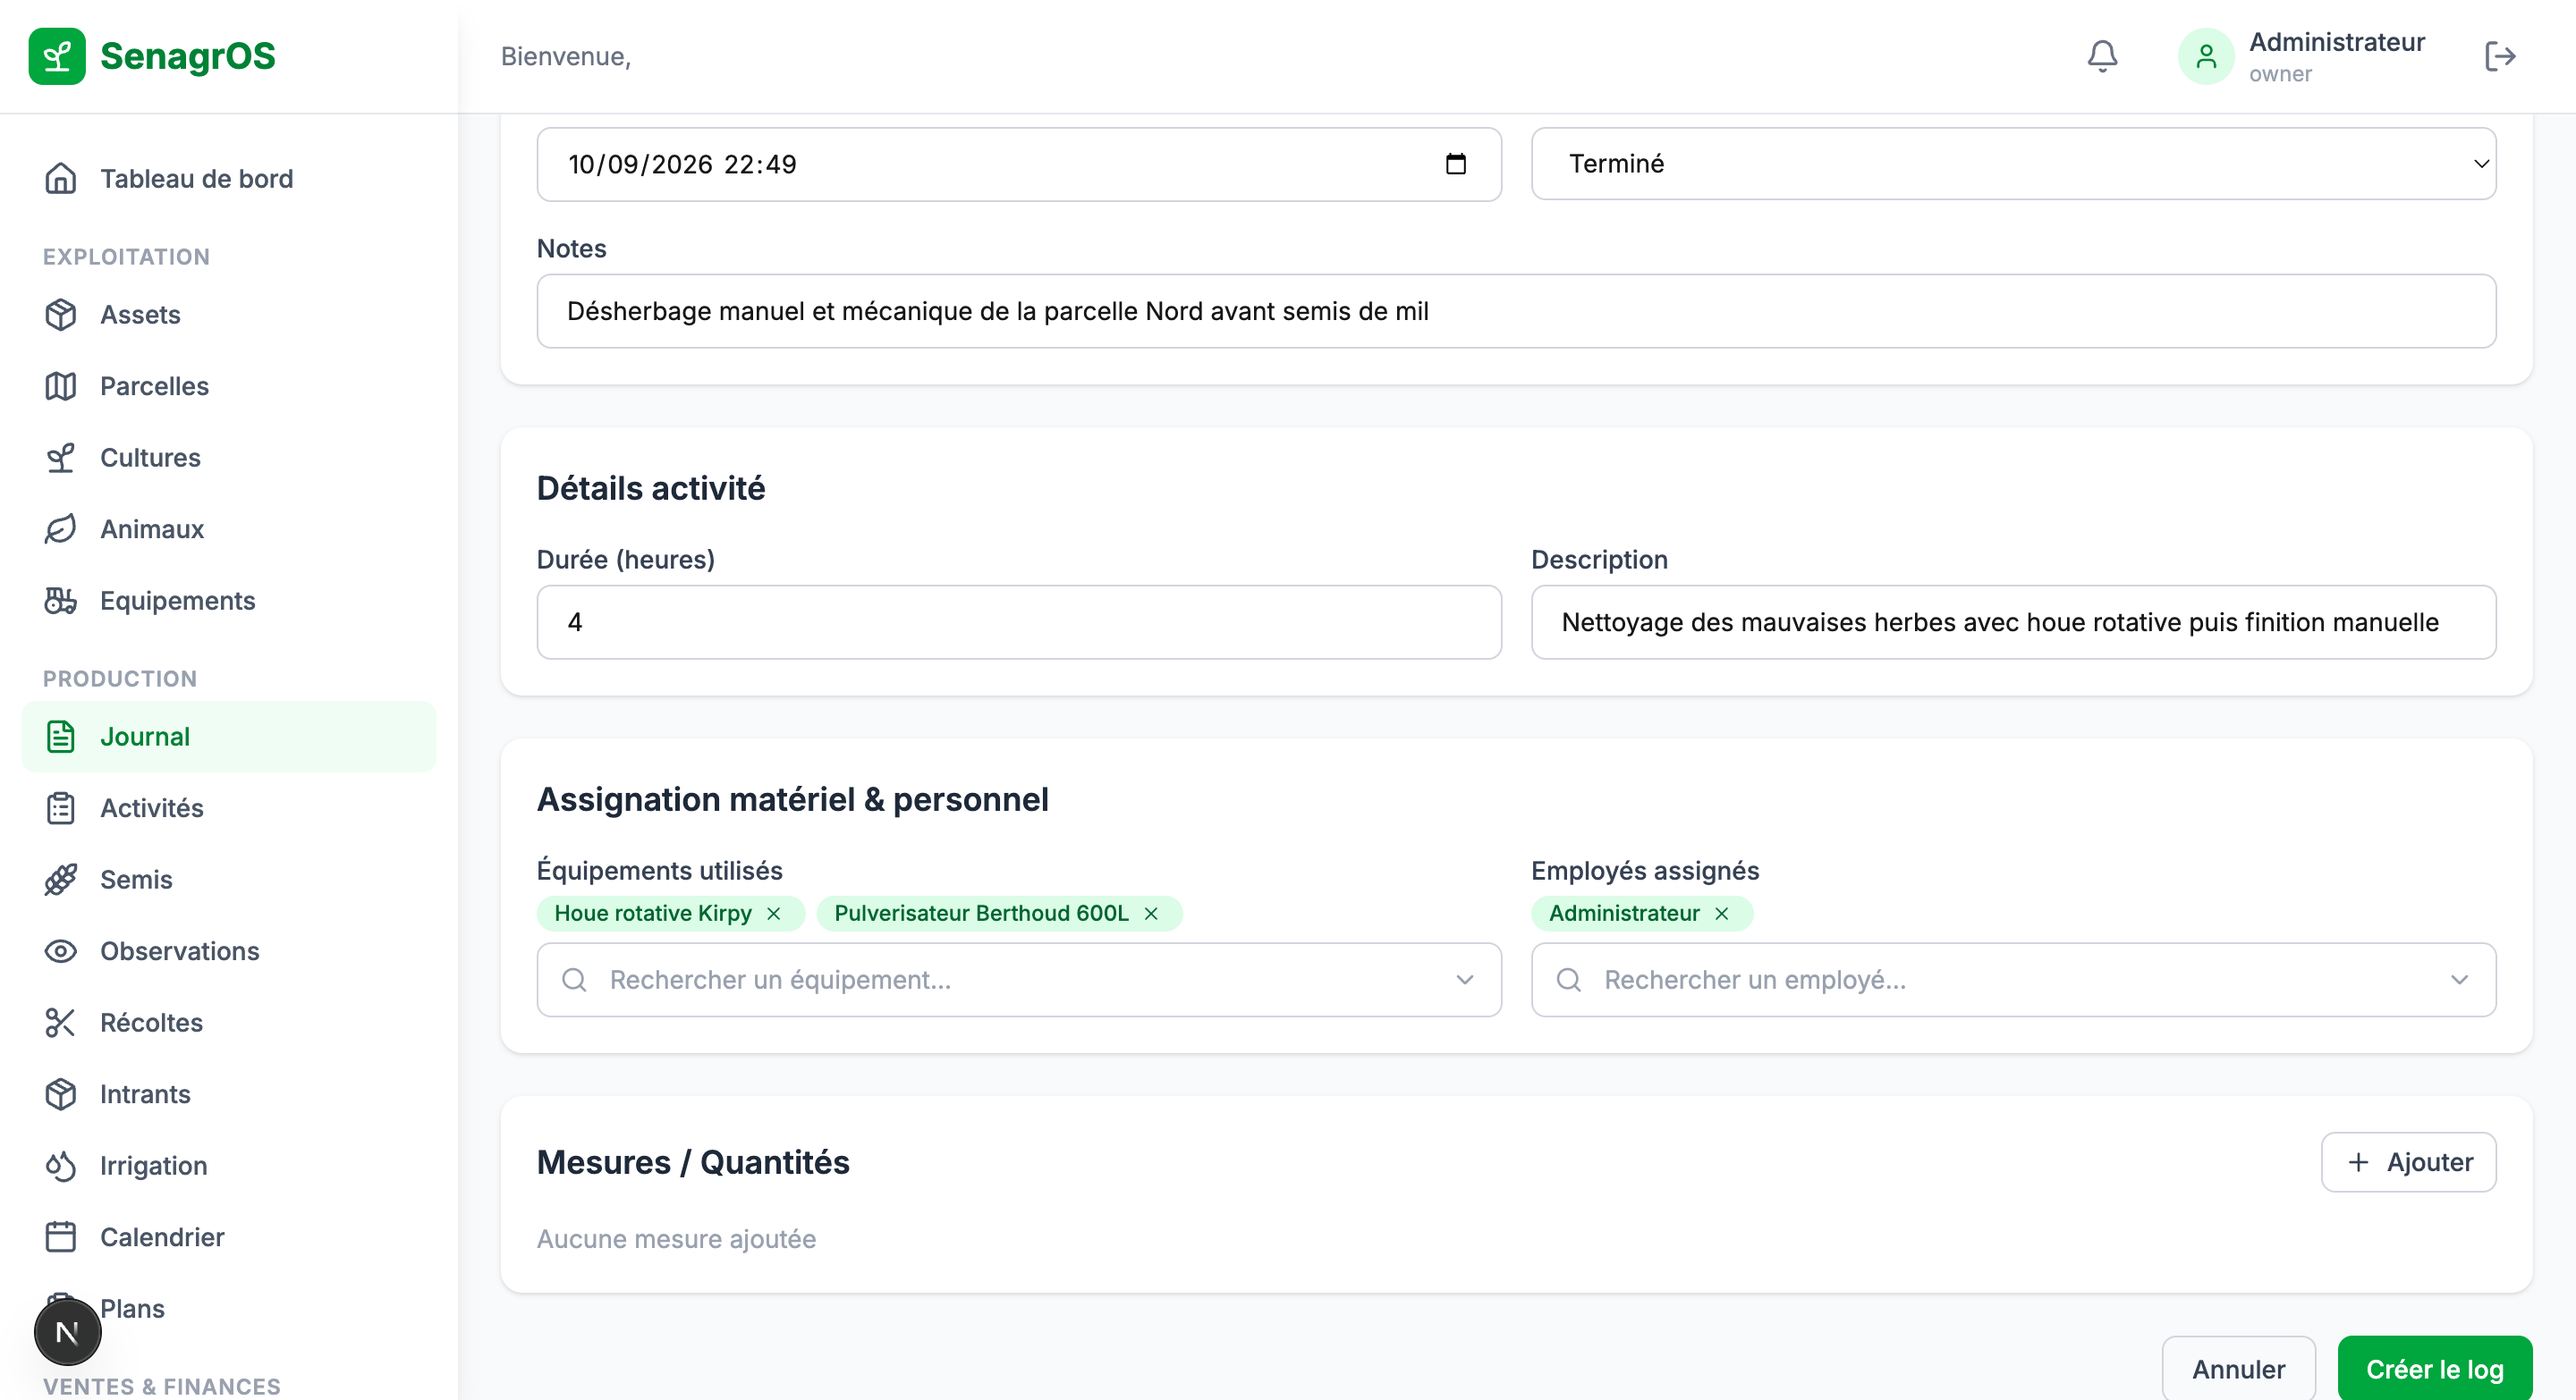
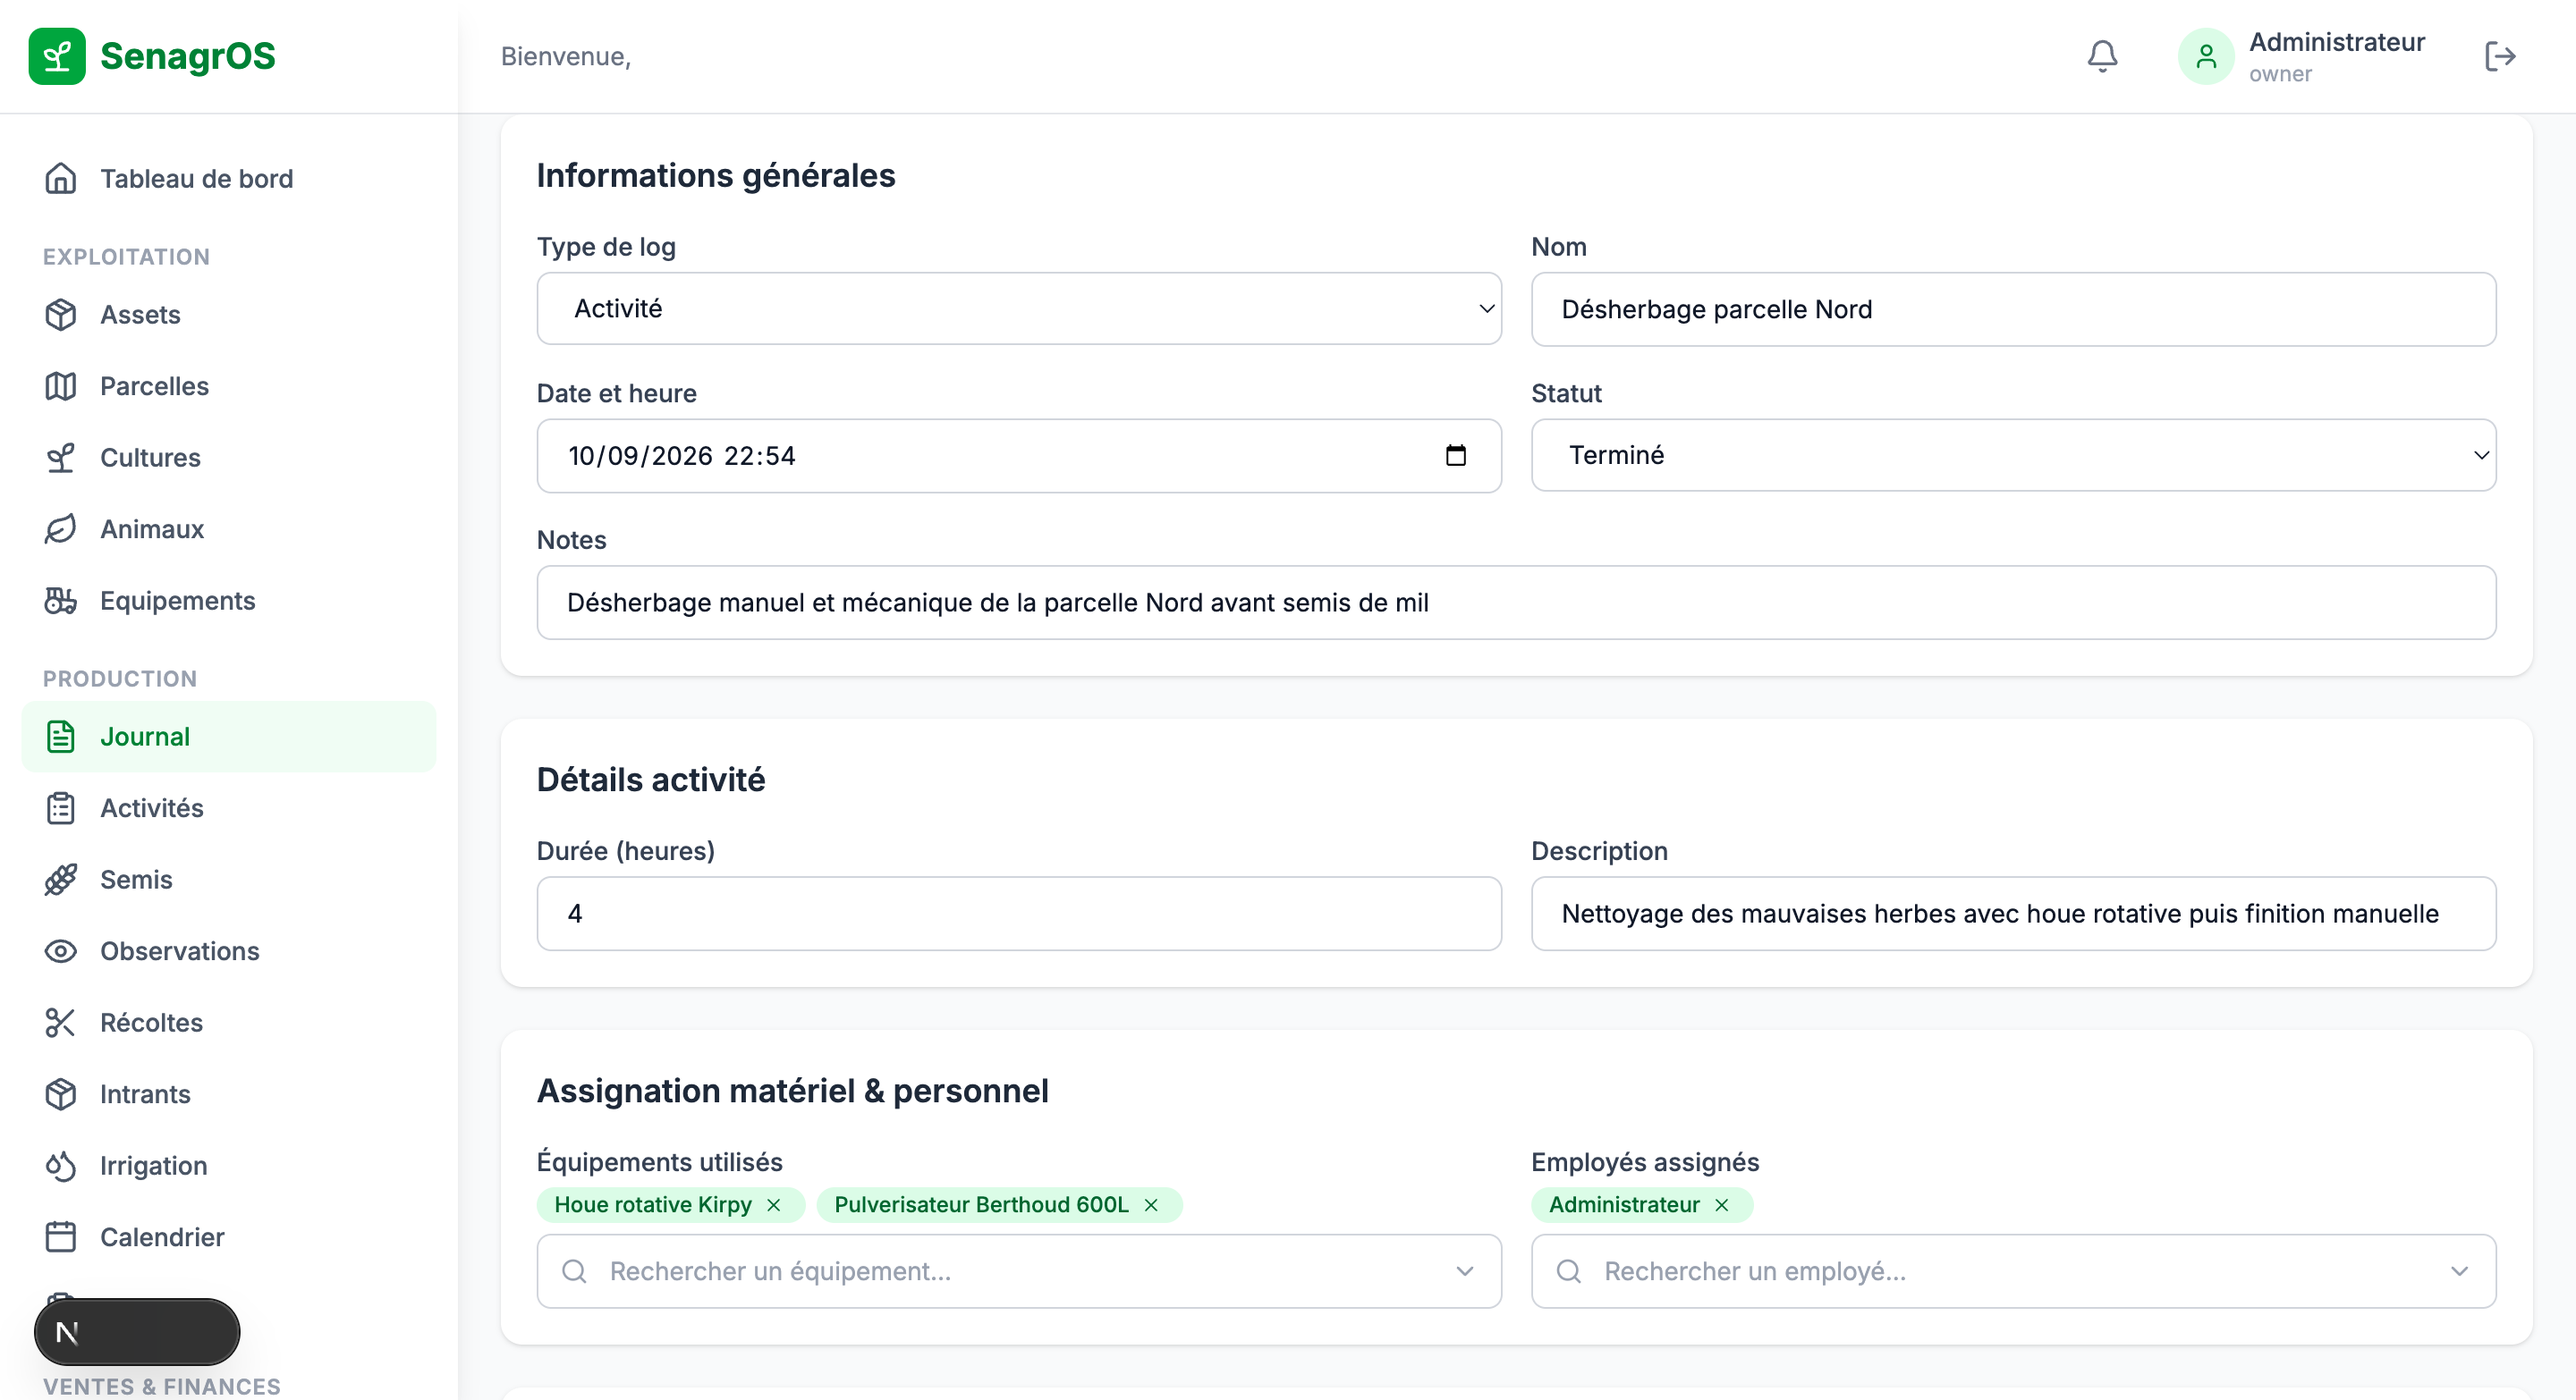
fix: darken input text color for better readability
Add explicit text-gray-900 to Input, Select, and ComboboxAsync components
so form field values are clearly readable instead of appearing too light.
Updated activity form screenshot with the improved contrast.

diff --git a/src/components/ui/ComboboxAsync.tsx b/src/components/ui/ComboboxAsync.tsx
@@ -129,7 +129,7 @@ export function ComboboxAsync<T>({
           onFocus={handleFocus}
           placeholder={placeholder}
           disabled={disabled}
-          className="w-full bg-transparent px-3 py-2.5 text-sm outline-none placeholder:text-gray-400 disabled:cursor-not-allowed disabled:opacity-50"
+          className="w-full bg-transparent px-3 py-2.5 text-sm text-gray-900 outline-none placeholder:text-gray-400 disabled:cursor-not-allowed disabled:opacity-50"
         />
         {isLoading ? (
           <Loader2 className="mr-3 h-4 w-4 shrink-0 animate-spin text-gray-400" />
@@ -343,7 +343,7 @@ export function ComboboxAsyncMulti<T>({
           onFocus={handleFocus}
           placeholder={placeholder}
           disabled={disabled}
-          className="w-full bg-transparent px-3 py-2.5 text-sm outline-none placeholder:text-gray-400 disabled:cursor-not-allowed disabled:opacity-50"
+          className="w-full bg-transparent px-3 py-2.5 text-sm text-gray-900 outline-none placeholder:text-gray-400 disabled:cursor-not-allowed disabled:opacity-50"
         />
         {isLoading ? (
           <Loader2 className="mr-3 h-4 w-4 shrink-0 animate-spin text-gray-400" />

diff --git a/src/components/ui/Select.tsx b/src/components/ui/Select.tsx
@@ -24,7 +24,7 @@ export const Select = forwardRef<HTMLSelectElement, SelectProps>(
         <select
           ref={ref}
           id={id}
-          className={`w-full rounded-lg border px-4 py-2.5 text-sm transition focus:outline-none focus:ring-2 ${
+          className={`w-full rounded-lg border px-4 py-2.5 text-sm text-gray-900 transition focus:outline-none focus:ring-2 ${
             error
               ? 'border-red-300 focus:border-red-500 focus:ring-red-200'
               : 'border-gray-300 focus:border-green-500 focus:ring-green-200'

diff --git a/src/components/ui/Input.tsx b/src/components/ui/Input.tsx
@@ -18,7 +18,7 @@ export const Input = forwardRef<HTMLInputElement, InputProps>(
         <input
           ref={ref}
           id={id}
-          className={`w-full rounded-lg border px-4 py-2.5 text-sm transition focus:outline-none focus:ring-2 ${
+          className={`w-full rounded-lg border px-4 py-2.5 text-sm text-gray-900 transition focus:outline-none focus:ring-2 ${
             error
               ? 'border-red-300 focus:border-red-500 focus:ring-red-200'
               : 'border-gray-300 focus:border-green-500 focus:ring-green-200'
